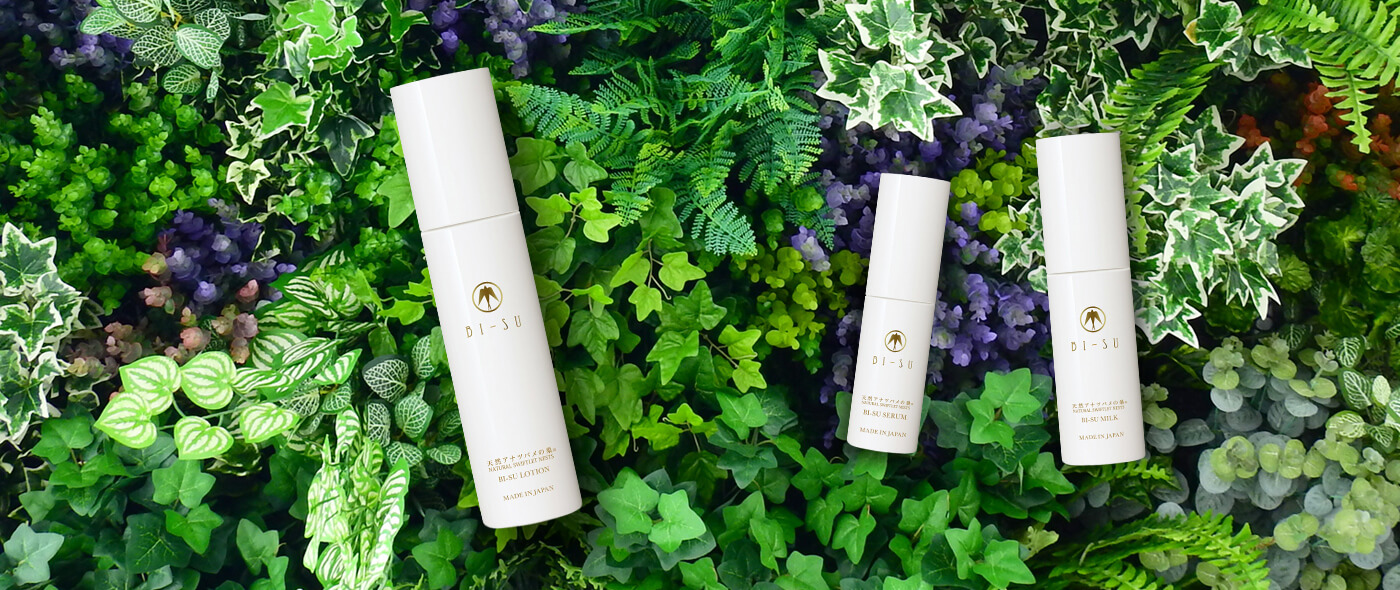
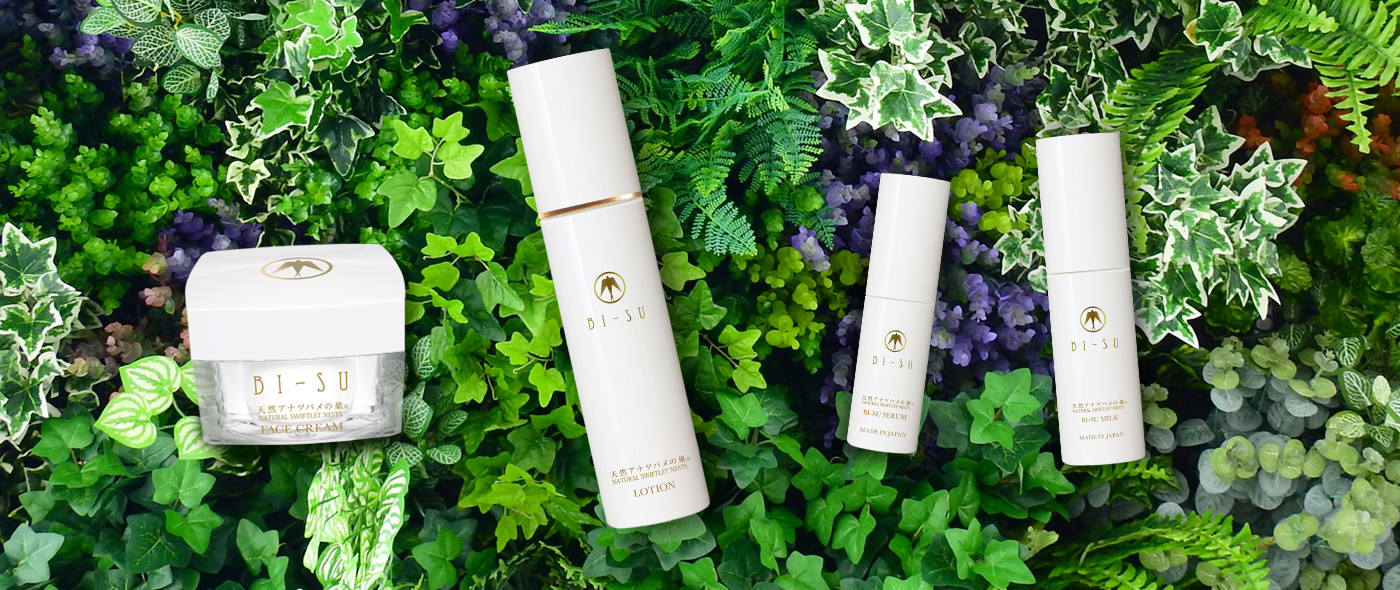
update

Changed region(s): [[0.1229, 0.061, 0.5221, 0.9458]]

diff --git a/src/styles/index.scss b/src/styles/index.scss
@@ -301,10 +301,10 @@ main>.slider{
                 height: 390px;
             }
             &#HealthyFood {
-                background-image: url(/img/en/products-pc.jpg);
+                background-image: url('/img/en/products-pc(1).jpg');
             }
             &#SkinCare {
-                background-image: url(/img/en/products-care.jpg);
+                background-image: url('/img/en/products-care(1).jpg');
                 flex-direction: row-reverse;
             }
         }
